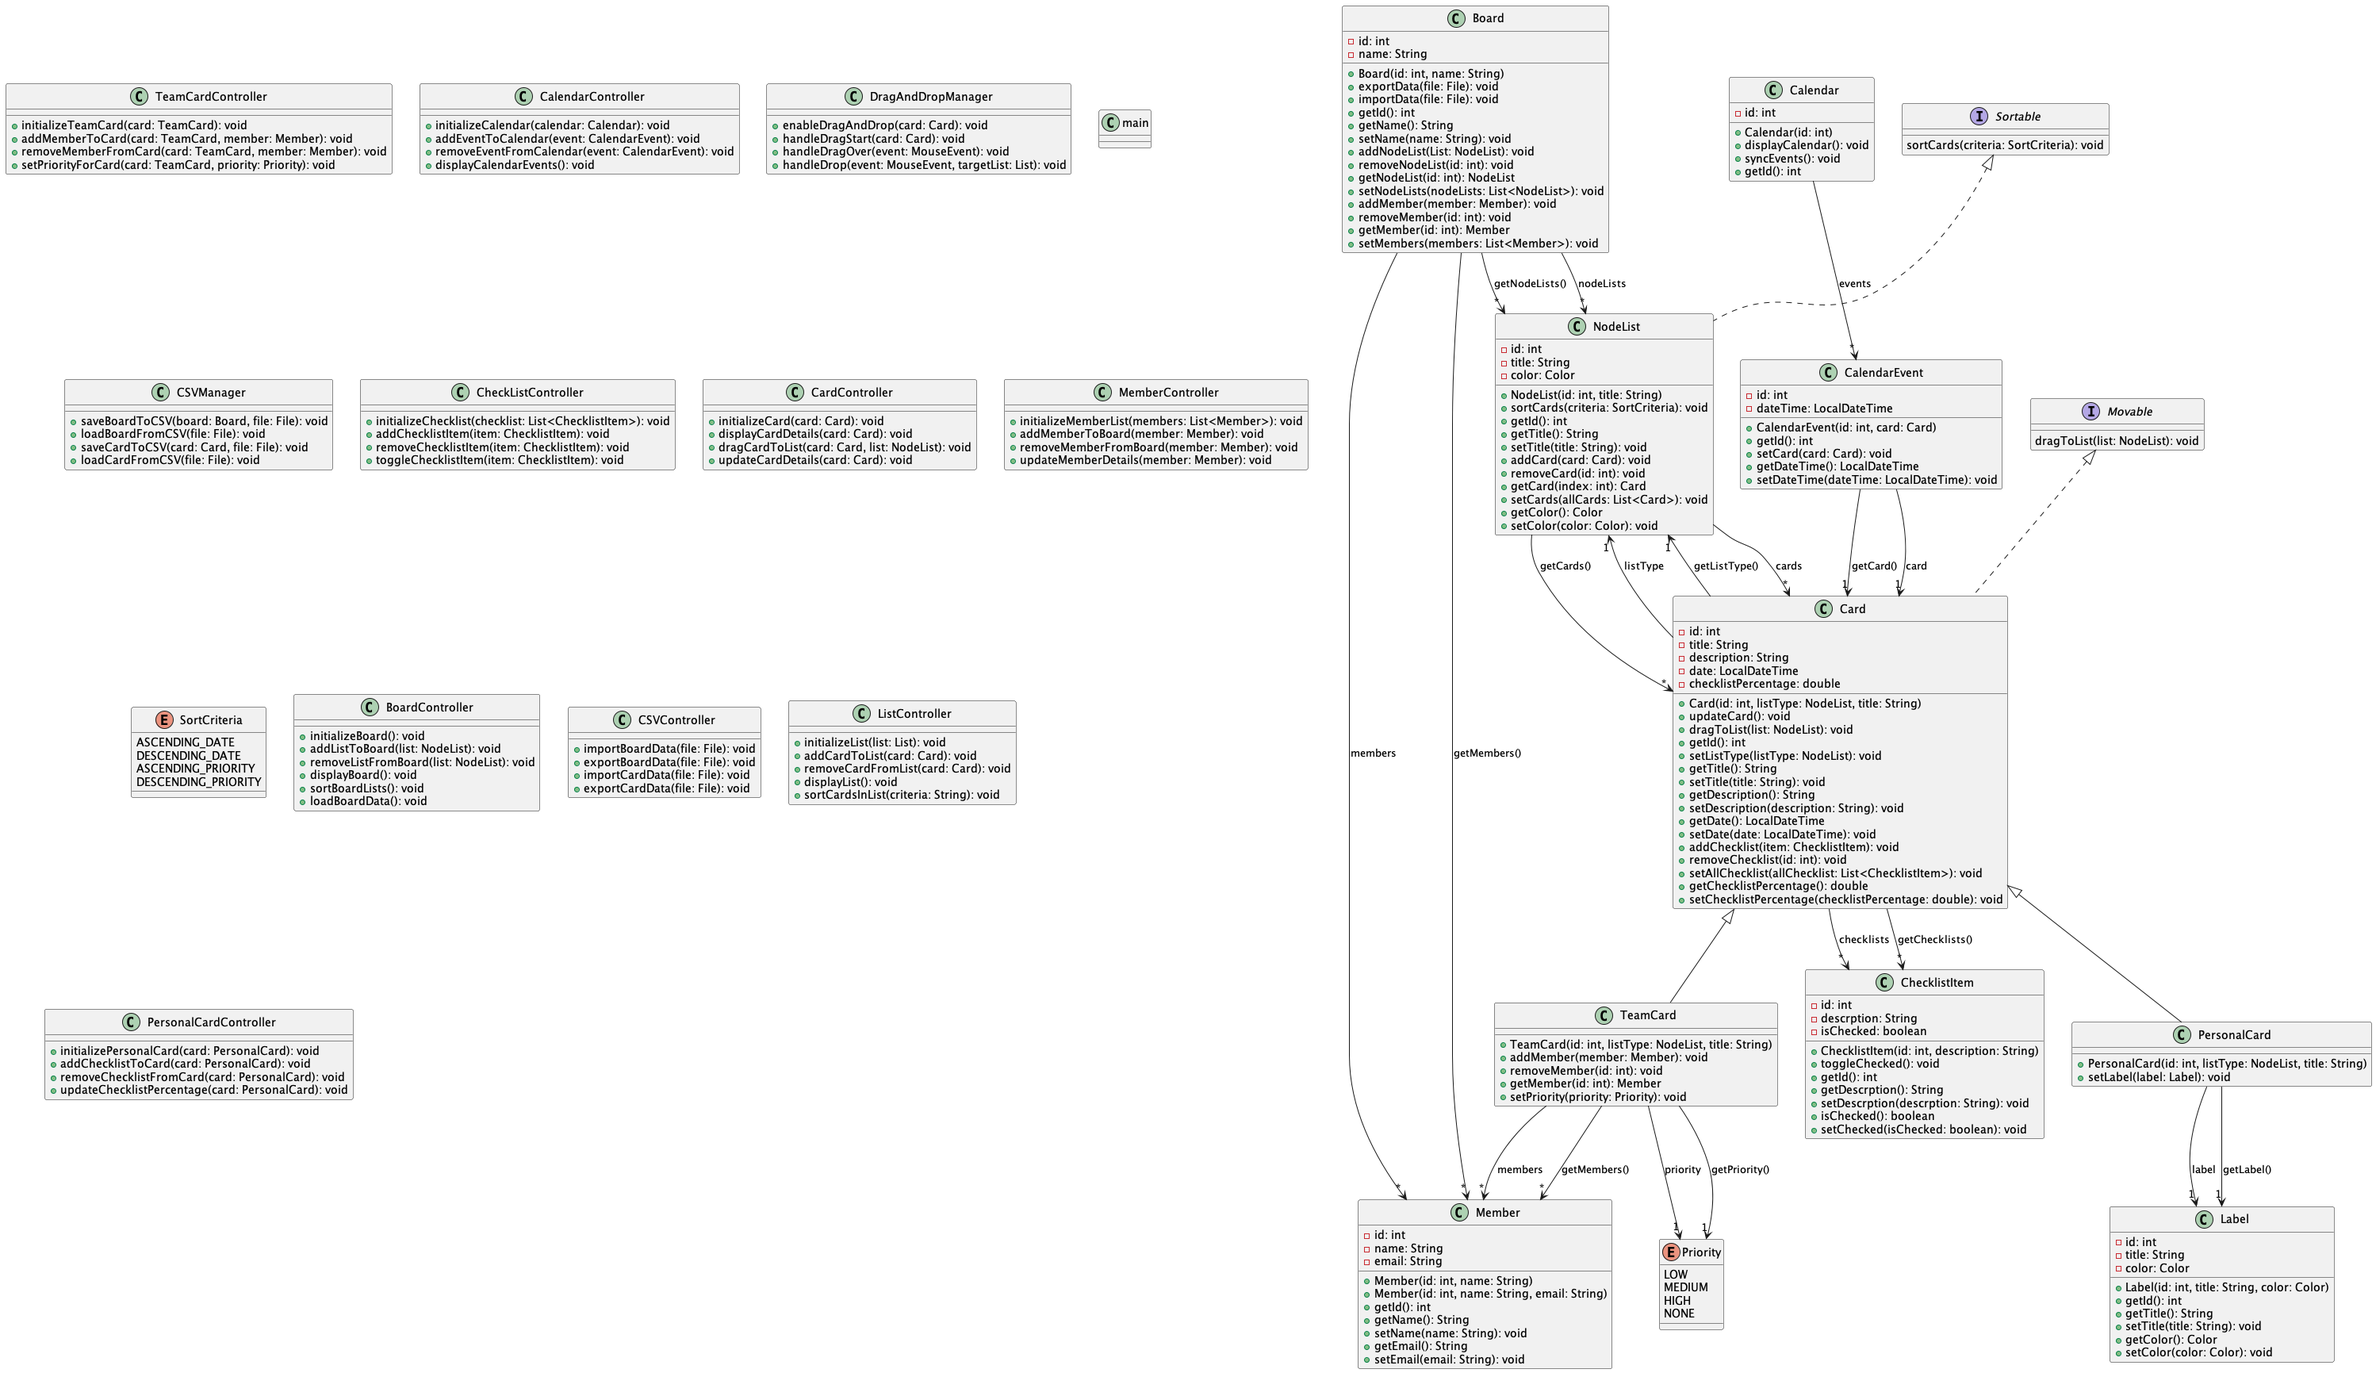
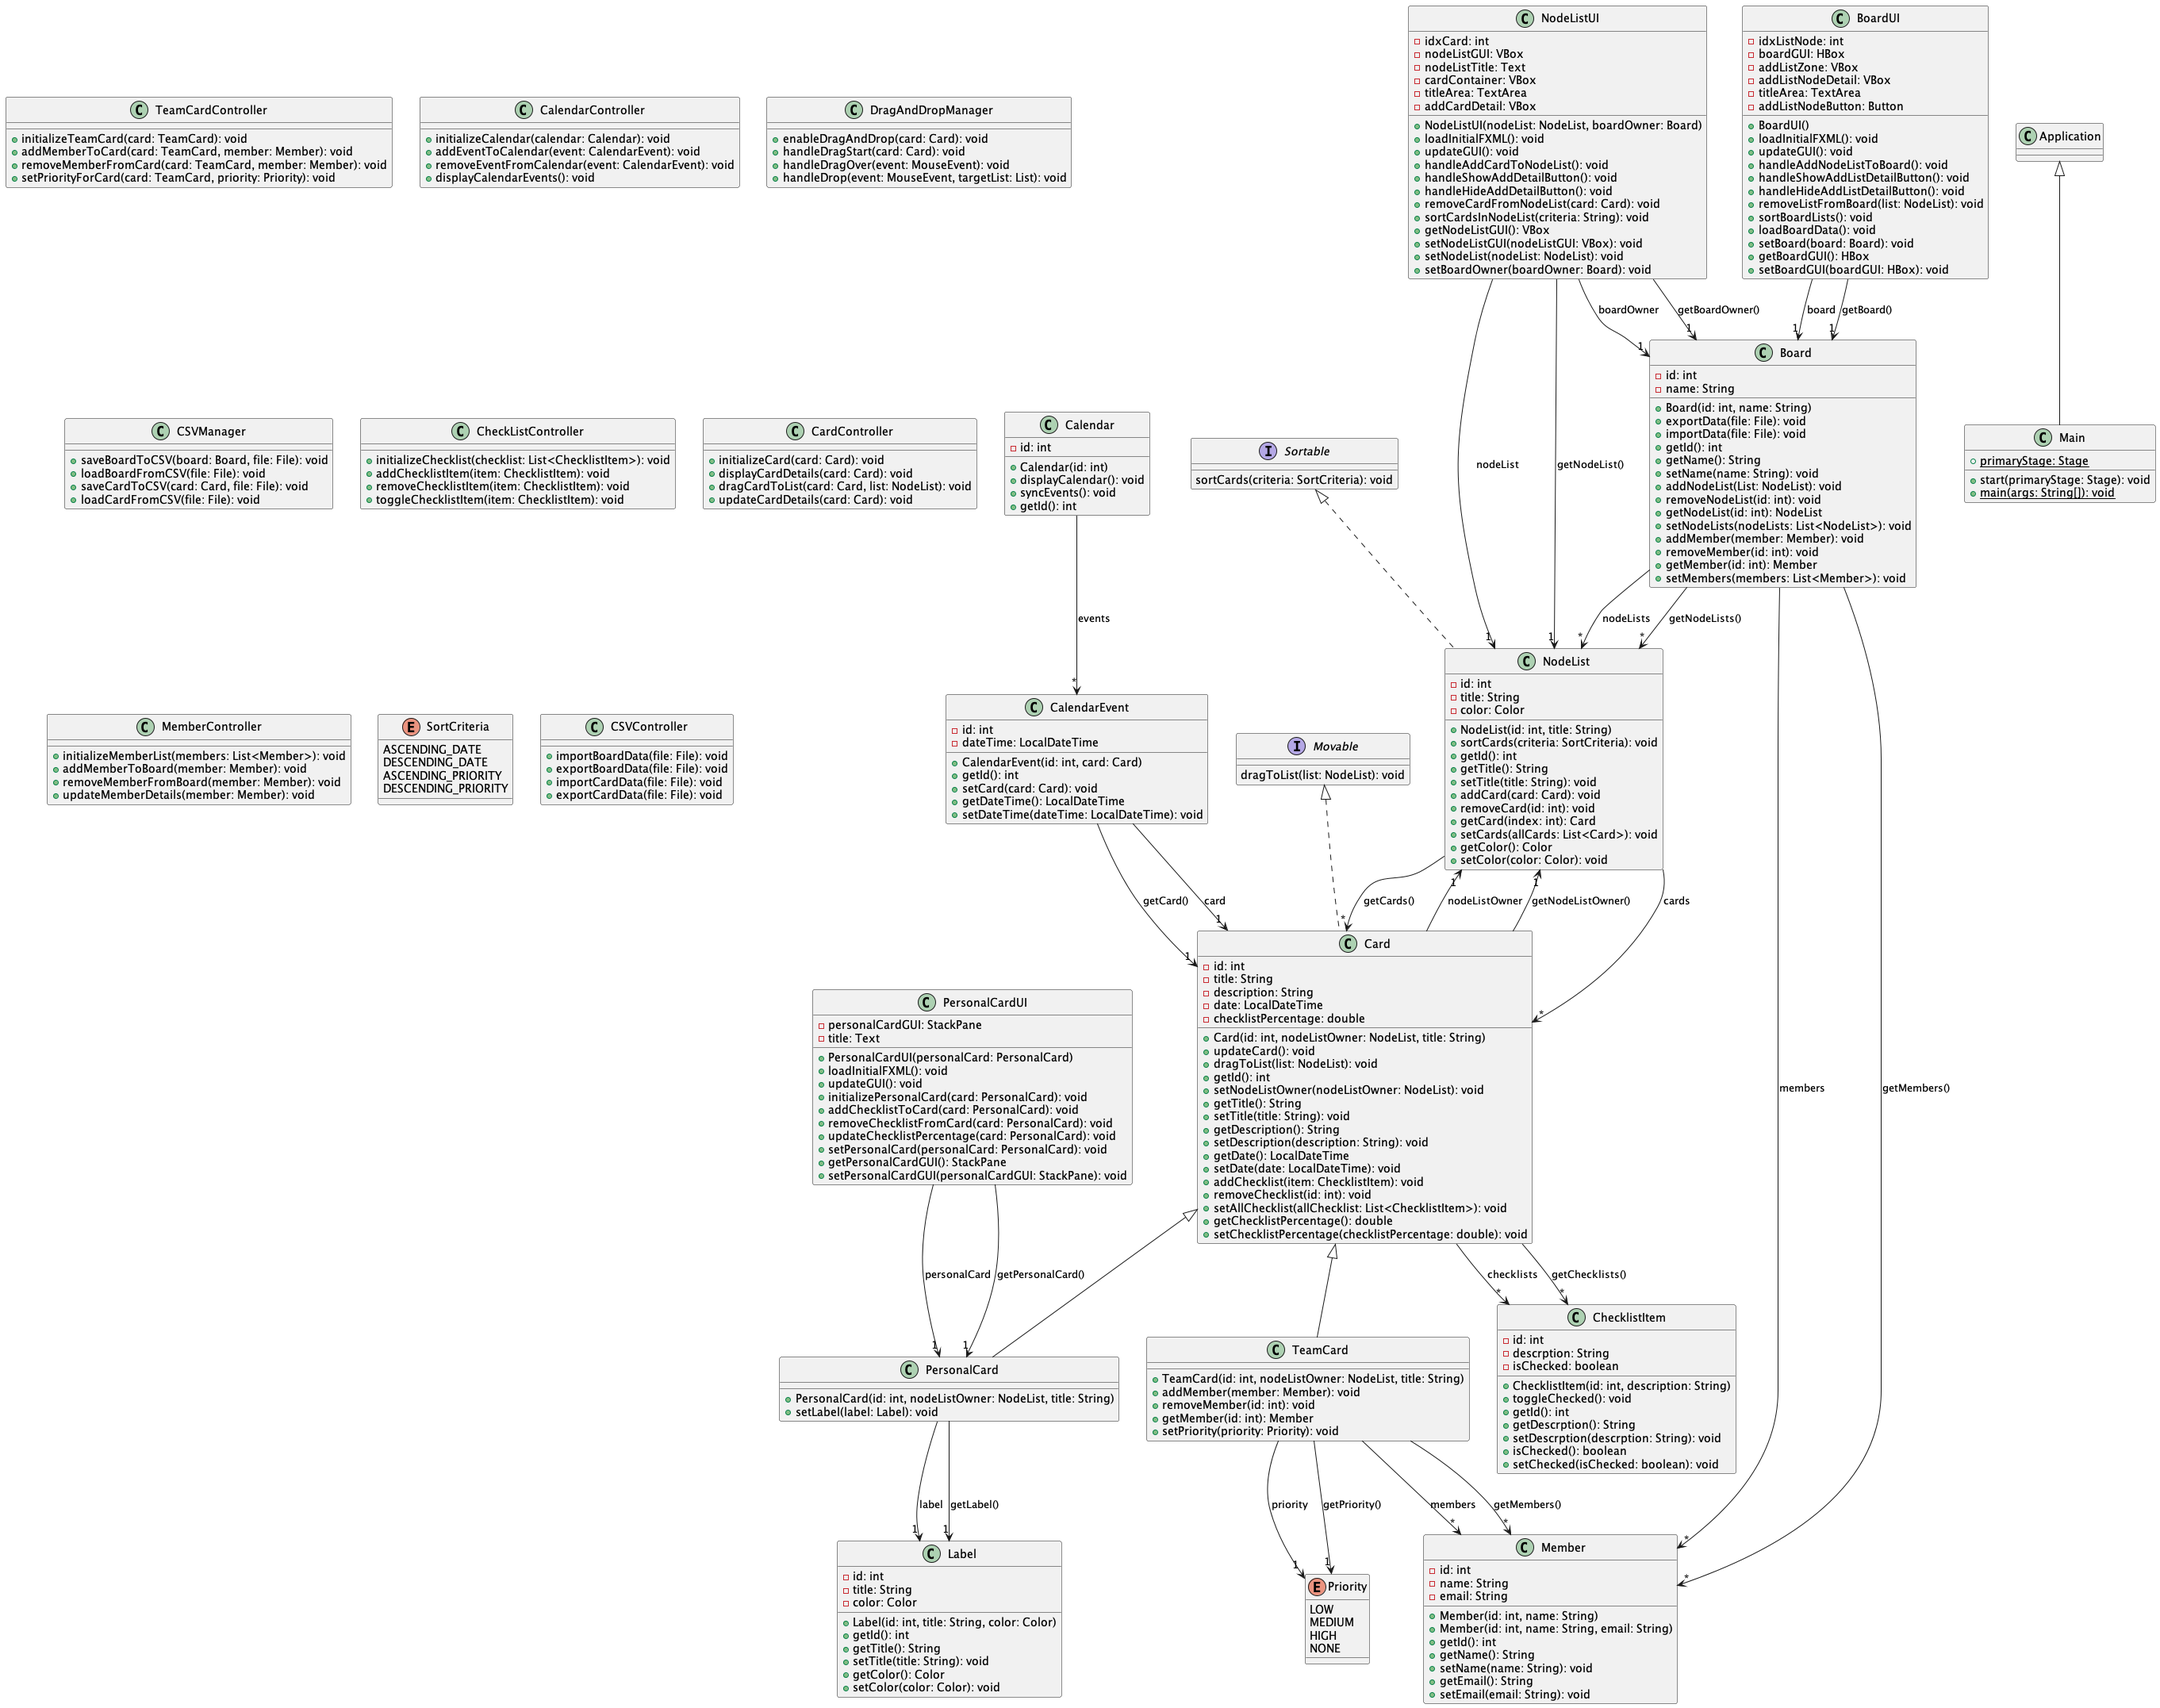
add index to object

diff --git a/src/controllers/NodeListUI.java b/src/controllers/NodeListUI.java
@@ -1,20 +1,20 @@
 package controllers;
 
 import java.io.IOException;
-import java.util.Arrays;
-
 import javafx.fxml.FXML;
 import javafx.fxml.FXMLLoader;
 import javafx.scene.control.TextArea;
 import javafx.scene.layout.VBox;
 import javafx.scene.text.Text;
-import javafx.stage.Stage;
+import models.Board;
 import models.Card;
 import models.NodeList;
 import models.PersonalCard;
 
 public class NodeListUI{
 	private NodeList nodeList;
+	private Board boardOwner;
+	private int idxCard = 0;
 	
 	@FXML private VBox nodeListGUI;
 	@FXML private Text nodeListTitle;
@@ -22,8 +22,9 @@ public class NodeListUI{
 	@FXML private TextArea titleArea;
 	@FXML private VBox addCardDetail;
 	
-	public NodeListUI(NodeList nodeList) throws IOException {
-		this.nodeList = nodeList;
+	public NodeListUI(NodeList nodeList,Board boardOwner) throws IOException {
+		setNodeList(nodeList);
+		setBoardOwner(boardOwner);
 		loadInitialFXML();
 	}
 	
@@ -50,12 +51,11 @@ public class NodeListUI{
 
     @FXML
     public void handleAddCardToNodeList(){
-    	System.out.println("Click add card");
-    	nodeList.addCard(new PersonalCard(0, null, titleArea.getText()));
+    	nodeList.addCard(new PersonalCard(idxCard, nodeList, titleArea.getText()));
+    	idxCard++;
     	titleArea.setText("");
     	handleHideAddDetailButton();
     	updateGUI();
-    	System.out.println(nodeList.getCards().size());
     }
     
     @FXML
@@ -92,5 +92,13 @@ public class NodeListUI{
 
 	public void setNodeList(NodeList nodeList) {
 		this.nodeList = nodeList;
+	}
+
+	public Board getBoardOwner() {
+		return boardOwner;
+	}
+
+	public void setBoardOwner(Board boardOwner) {
+		this.boardOwner = boardOwner;
 	}
 }

diff --git a/src/models/Card.java b/src/models/Card.java
@@ -7,16 +7,16 @@ import interfaces.Movable;
 
 public abstract class Card implements Movable{
 	private int id;
-	private NodeList listType; // For exporting CSV purpose
+	private NodeList nodeListOwner; // For exporting CSV purpose
 	private String title;
 	private String description; // Add later
 	private LocalDateTime date; // Add later
 	private List<ChecklistItem> checklists; // Add later
 	private double checklistPercentage; // Add later when checklists is initialized
 	
-	public Card(int id,NodeList listType, String title) {
+	public Card(int id,NodeList nodeListOwner, String title) {
 		this.id = id;
-		setListType(listType);
+		setNodeListOwner(nodeListOwner);
 		setTitle(title);
 	}
 	
@@ -35,12 +35,12 @@ public abstract class Card implements Movable{
 	}
 	
 	// ListType
-	public NodeList getListType() {
-		return listType;
+	public NodeList getNodeListOwner() {
+		return nodeListOwner;
 	}
 
-	public void setListType(NodeList listType) {
-		this.listType = listType;
+	public void setNodeListOwner(NodeList nodeListOwner) {
+		this.nodeListOwner = nodeListOwner;
 	}
 
 	// Title

diff --git a/src/controllers/BoardUI.java b/src/controllers/BoardUI.java
@@ -13,6 +13,7 @@ import models.NodeList;
 
 public class BoardUI{
 	private Board board;
+	private int idxListNode = 0;
 	
 	@FXML private HBox boardGUI;
 	@FXML private VBox addListZone;
@@ -41,7 +42,7 @@ public class BoardUI{
     	for (NodeList nodeList: board.getNodeLists()) {
     		NodeListUI nodeListUI;
 			try {
-				nodeListUI = new NodeListUI(nodeList);
+				nodeListUI = new NodeListUI(nodeList,board);
 				nodeListUI.updateGUI();
 				boardGUI.getChildren().add(nodeListUI.getNodeListGUI());
 			} catch (IOException e) {
@@ -54,8 +55,8 @@ public class BoardUI{
     
     @FXML
     public void handleAddNodeListToBoard() {
-    	System.out.println("Click");
-    	board.addNodeList(new NodeList(0, titleArea.getText()));
+    	board.addNodeList(new NodeList(idxListNode, titleArea.getText()));
+    	idxListNode++;
     	titleArea.setText("");
     	handleHideAddListDetailButton();
     	updateGUI();

diff --git a/src/controllers/PersonalCardUI.java b/src/controllers/PersonalCardUI.java
@@ -2,11 +2,16 @@ package controllers;
 
 import java.io.IOException;
 
+import app.Main;
 import javafx.fxml.FXML;
 import javafx.fxml.FXMLLoader;
+import javafx.scene.Scene;
 import javafx.scene.layout.HBox;
+import javafx.scene.layout.Pane;
 import javafx.scene.layout.StackPane;
 import javafx.scene.text.Text;
+import javafx.stage.Modality;
+import javafx.stage.Stage;
 import models.Board;
 import models.NodeList;
 import models.PersonalCard;

diff --git a/src/models/TeamCard.java b/src/models/TeamCard.java
@@ -8,8 +8,8 @@ public class TeamCard extends Card{
 	private List<Member> members; // Add later , This members is assigned to finish this Card
 	private Priority priority; // Add later
 	
-	public TeamCard(int id,NodeList listType, String title) {
-		super(id, listType, title);
+	public TeamCard(int id,NodeList nodeListOwner, String title) {
+		super(id, nodeListOwner, title);
 	}
 	
 	// Members

diff --git a/src/app/main.java b/src/app/main.java
@@ -8,8 +8,11 @@ import javafx.scene.Scene;
 import javafx.stage.Stage;
 
 public class Main extends Application {
+	public static Stage primaryStage;
+	
     @Override
     public void start(Stage primaryStage){
+    	Main.primaryStage = primaryStage;
         // Load FXML file
     	BoardUI boardUI = new BoardUI();
         Parent root = boardUI.getBoardGUI();

diff --git a/src/models/PersonalCard.java b/src/models/PersonalCard.java
@@ -4,8 +4,8 @@ package models;
 public class PersonalCard extends Card{
 	public Label label; // Add later
 	
-	public PersonalCard(int id,NodeList listType, String title) {
-		super(id, listType, title);
+	public PersonalCard(int id,NodeList nodeListOwner, String title) {
+		super(id, nodeListOwner, title);
 	}
 
 	public Label getLabel() {
